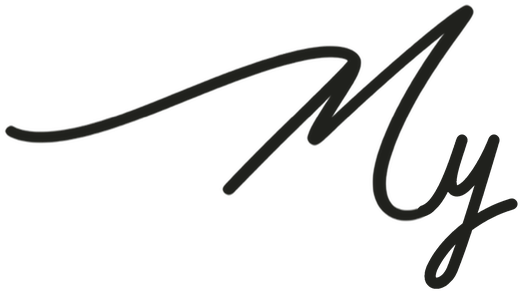
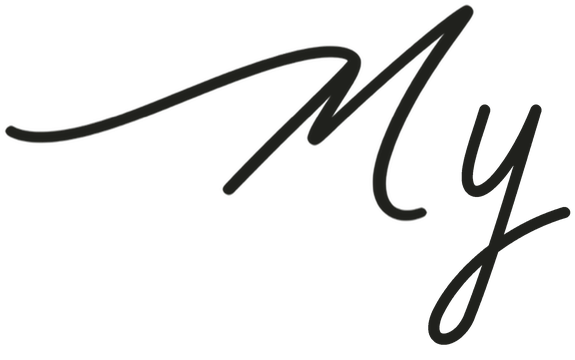
About: y separate from the M and larger; lowercase 'having'

Changed region(s): [[0.0, 0.0, 0.9962, 0.96]]

diff --git a/index.html b/index.html
@@ -273,13 +273,13 @@
   @media (min-width: 1024px) { .bio-label { display: block; margin-bottom: 14px; } }
   .bio-headline { font-size: 34px; font-weight: 700; line-height: 1.15; color: var(--ink); }
   /* "My" is handwritten: the M from the signature plus a matching y
-     (images/signature-my.png, 530x300; 113 image px = 1em). The M's left leg sits where
+     (images/signature-my.png, 575x360; 113 image px = 1em). The M's left leg sits where
      the text starts (x 221) and the letters rest on the baseline (y 189); the lead-in
      stroke reaches left past the card's padding and border, so it starts outside the
      card, and the y's descender hangs below the line. */
   .sig-my {
-    height: 2.655em; width: auto;   /* 300 / 113 */
-    vertical-align: -0.982em;       /* (300 - 189) / 113 */
+    height: 3.186em; width: auto;   /* 360 / 113 */
+    vertical-align: -1.513em;       /* (360 - 189) / 113 */
     margin-left: -1.956em;          /* 221 / 113 */
   }
   /* Phones: no room left of the card, so the card clips the lead-in at its edge */
@@ -748,9 +748,9 @@
         <!-- Two columns: "My" (signature M) on the left; headline and subtitle on the right,
              so the subtitle starts right after "My" -->
         <div class="bio-grid">
-          <span class="bio-my" aria-hidden="true"><img class="sig-my" src="images/signature-my.png" alt="" width="530" height="300"></span>
+          <span class="bio-my" aria-hidden="true"><img class="sig-my" src="images/signature-my.png" alt="" width="575" height="360"></span>
           <div>
-            <p class="bio-headline"><span class="visually-hidden">My </span><mark class="highlight">Hobby</mark> is Having <mark class="highlight">Hobbies</mark></p>
+            <p class="bio-headline"><span class="visually-hidden">My </span><mark class="highlight">Hobby</mark> is having <mark class="highlight">Hobbies</mark></p>
             <p class="bio-sub">Cycle through my hyperfixations with me,<br>except Bishop; my love for my puppy is forever.</p>
           </div>
         </div>
